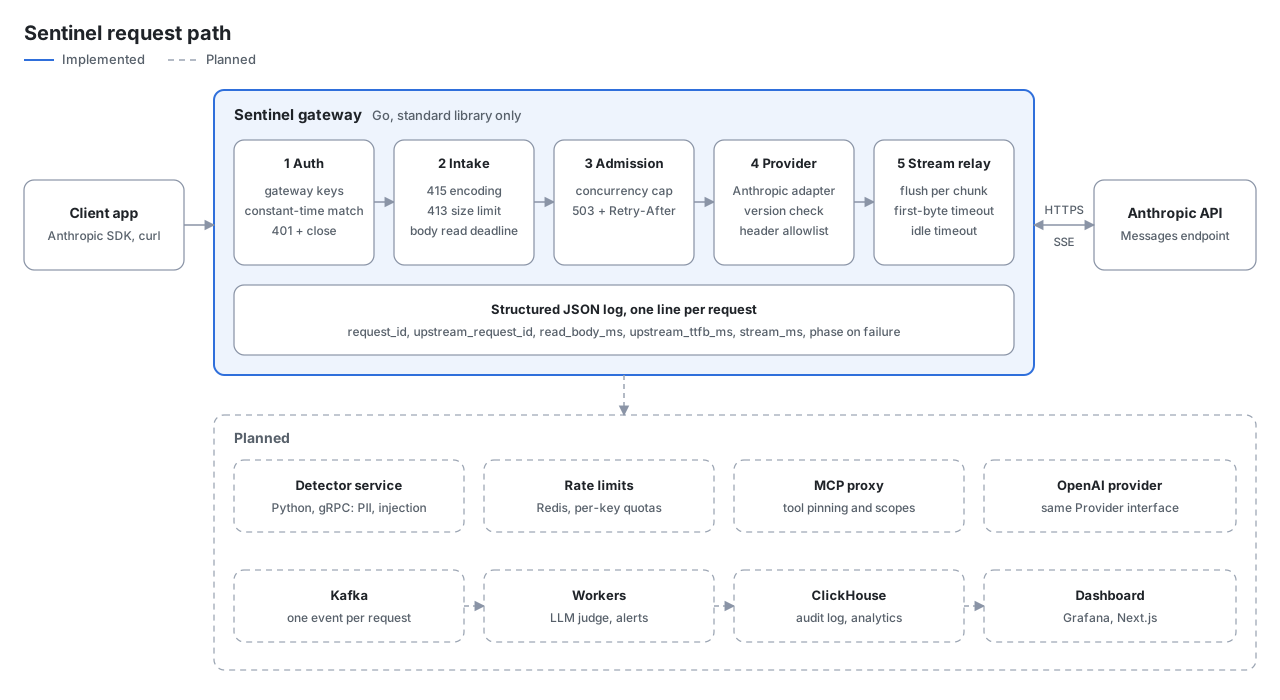
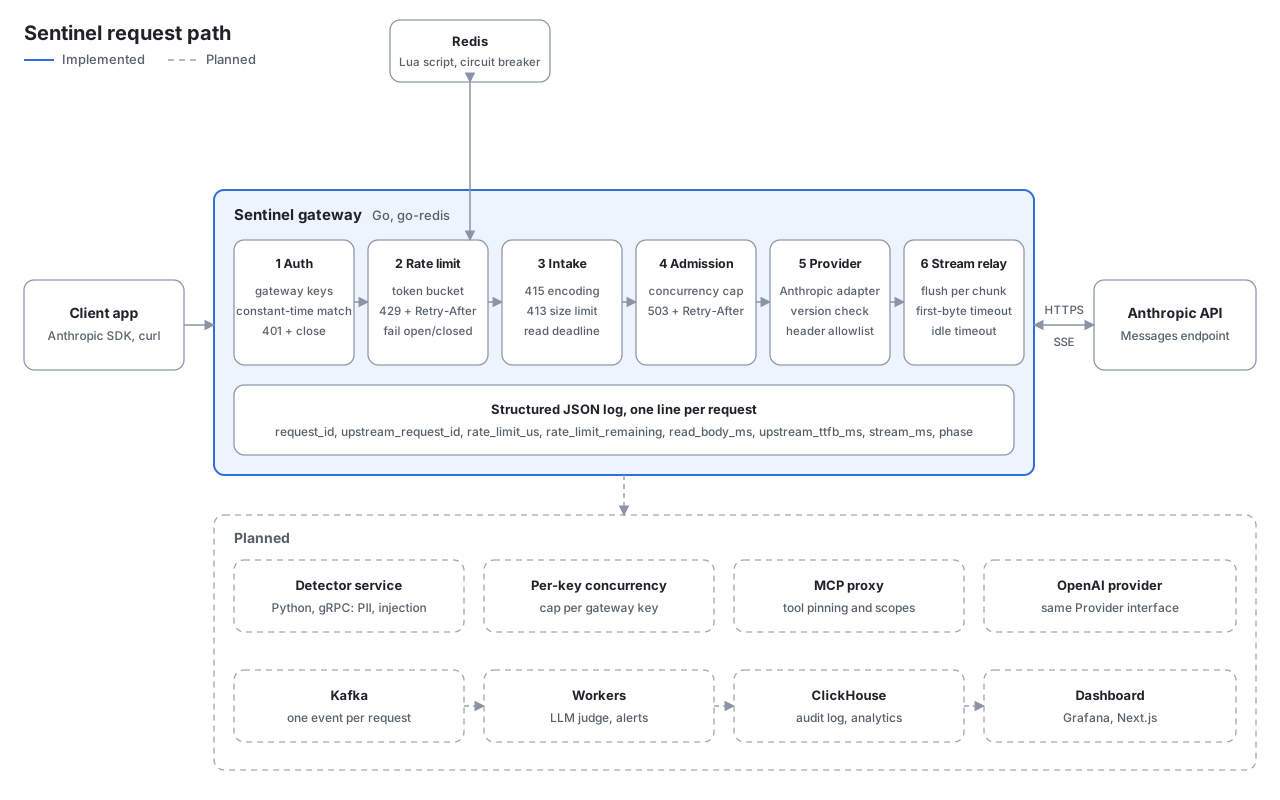
Update architecture diagram and add target architecture (#28)

diff --git a/README.md b/README.md
@@ -359,6 +359,12 @@ Each of these is tracked as an issue.
 
 ## Roadmap
 
+### Target architecture
+
+Where the project is heading. Not yet built; the diagram at the top of this README shows what runs today.
+
+![Sentinel target architecture](docs/target-architecture.svg)
+
 | Phase | Scope |
 | --- | --- |
 | **1. Core proxy** | Anthropic provider, auth, streaming, timeouts, resource limits, structured logging. **Done.** |
